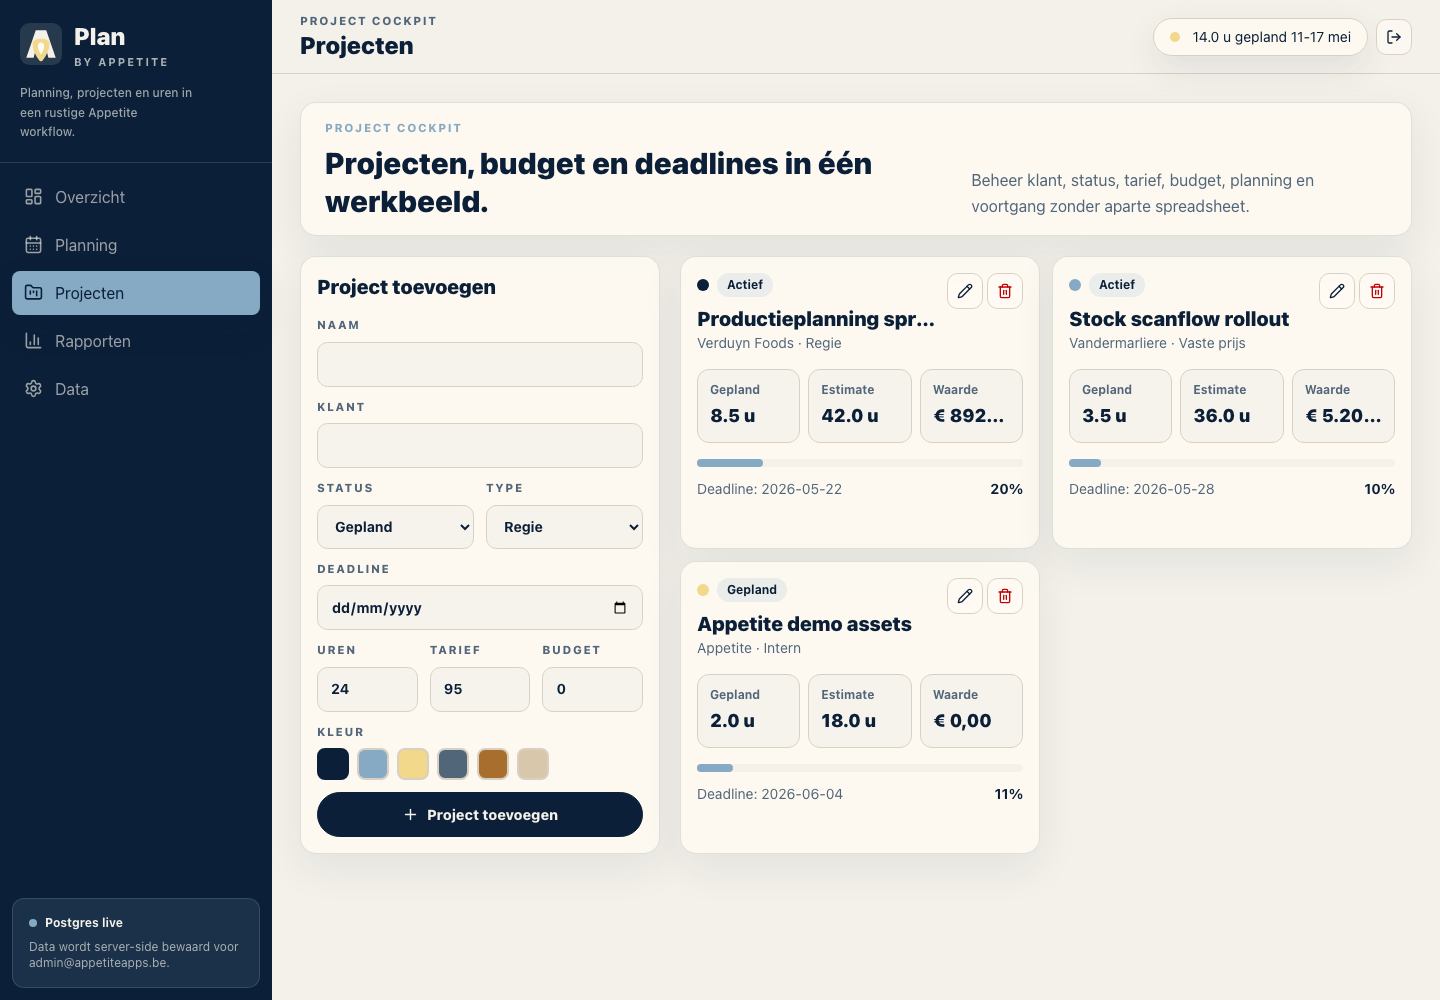
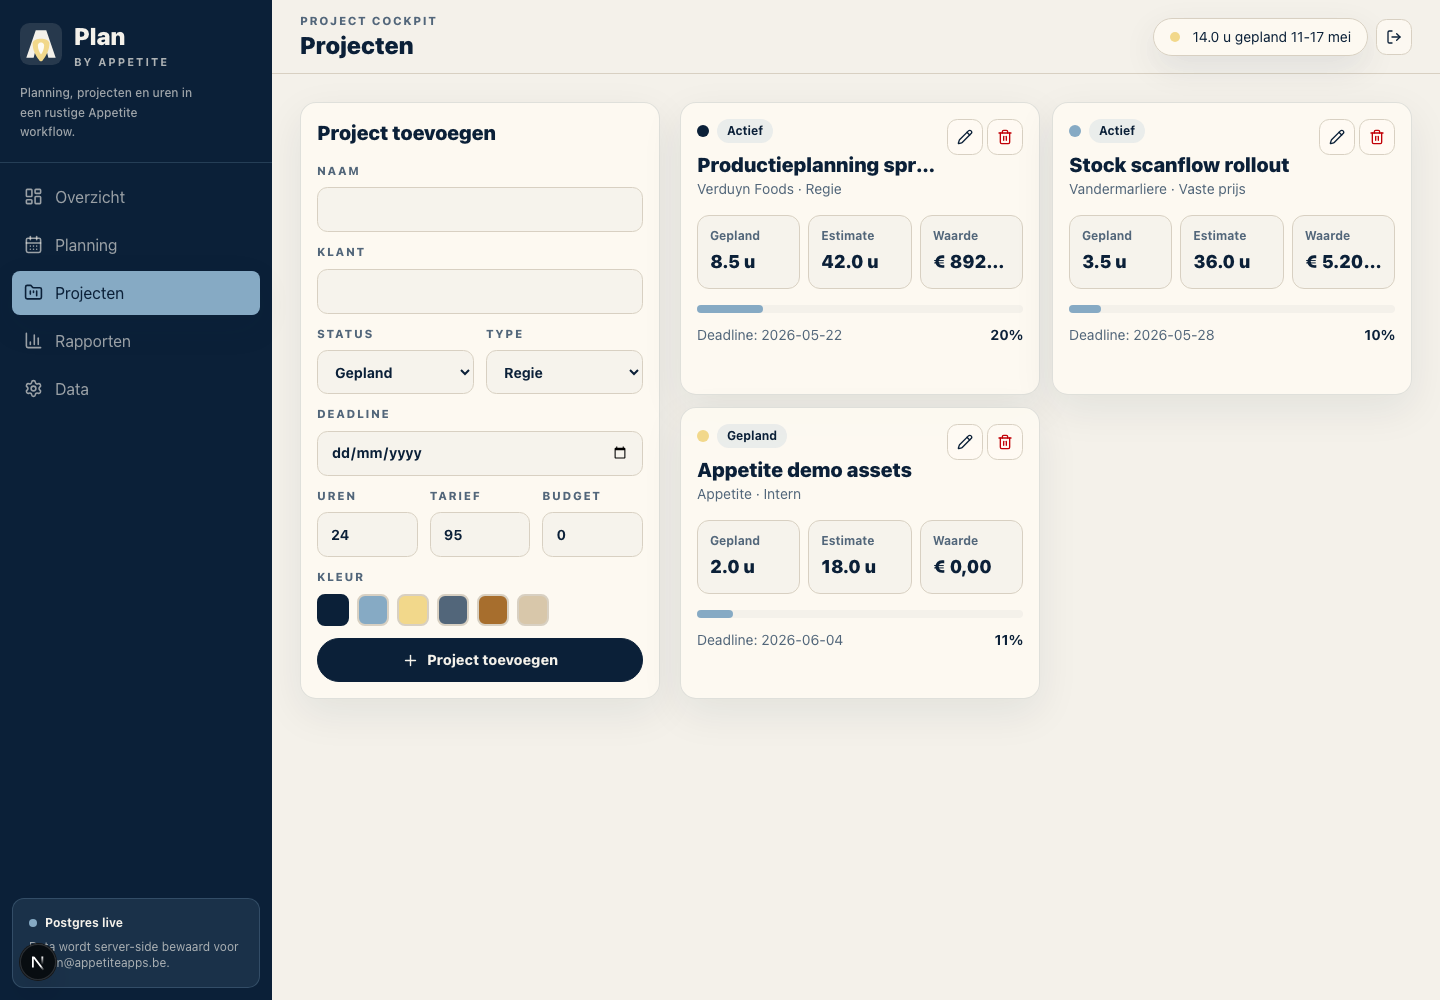
Remove app screen hero intros

diff --git a/src/components/PlanApp.tsx b/src/components/PlanApp.tsx
@@ -56,32 +56,12 @@ const navItems: { id: Screen; label: string; icon: typeof LayoutDashboard }[] = 
   { id: 'settings', label: 'Data', icon: Settings },
 ]
 
-const screenMeta: Record<Screen, { eyebrow: string; title: string; text: string }> = {
-  dashboard: {
-    eyebrow: 'Planning cockpit',
-    title: 'Eén ritme voor projecten, uren en capaciteit.',
-    text: 'Een compact overzicht van planning, deadlines en projectwaarde voor dagelijkse opvolging.',
-  },
-  planning: {
-    eyebrow: 'Week en maand',
-    title: 'Weekplanning',
-    text: 'Plan en wijzig tijdblokken vanuit één compact werkbeeld.',
-  },
-  projects: {
-    eyebrow: 'Project cockpit',
-    title: 'Projecten, budget en deadlines in één werkbeeld.',
-    text: 'Beheer klant, status, tarief, budget, planning en voortgang zonder aparte spreadsheet.',
-  },
-  reports: {
-    eyebrow: 'Rapportage',
-    title: 'Zie waar tijd en waarde naartoe gaan.',
-    text: 'Bundel factureerbare uren, projectstatus en omzetindicatie tot een bruikbaar rapport.',
-  },
-  settings: {
-    eyebrow: 'Beheer',
-    title: 'Data, demo en sessie onder controle.',
-    text: 'Exporteer, importeer of herstel data zonder database-instellingen in de browser te tonen.',
-  },
+const screenEyebrows: Record<Screen, string> = {
+  dashboard: 'Planning cockpit',
+  planning: 'Week en maand',
+  projects: 'Project cockpit',
+  reports: 'Rapportage',
+  settings: 'Beheer',
 }
 
 const defaultEntry = (projectId = '', date = todayKey()): Omit<TimeEntry, 'id'> => ({
@@ -187,7 +167,7 @@ function App({ initialState, userEmail }: { initialState: PlanState; userEmail: 
         <main className="min-w-0 pb-24 md:pb-0">
           <header className="hidden h-[74px] items-center justify-between border-b border-app-border bg-app-paper/78 px-7 backdrop-blur md:flex">
             <div>
-              <p className="app-caption text-app-muted">{screenMeta[screen].eyebrow}</p>
+              <p className="app-caption text-app-muted">{screenEyebrows[screen]}</p>
               <h1 className="font-display text-2xl font-black tracking-normal">{navItems.find((item) => item.id === screen)?.label}</h1>
             </div>
             <div className="flex items-center gap-2">
@@ -445,10 +425,10 @@ function Planning({
         </div>
 
       <section className="order-1 min-w-0 space-y-4 min-[1380px]:order-2">
-        <div className="app-panel flex min-w-0 flex-wrap items-center justify-between gap-3 rounded-2xl px-4 py-3">
+        <div className="flex min-w-0 flex-wrap items-center justify-between gap-3 border-b border-app-border pb-3">
           <div>
             <p className="app-caption text-app-blue">Week en maand</p>
-            <h2 className="font-display text-xl font-black tracking-normal md:text-2xl">{planningAnchor.toLocaleDateString('nl-BE', { month: 'long', year: 'numeric' })}</h2>
+            <h2 className="font-display text-lg font-black tracking-normal md:text-2xl">{planningAnchor.toLocaleDateString('nl-BE', { month: 'long', year: 'numeric' })}</h2>
             <p className="text-sm text-app-muted">Tijdblokken toevoegen, aanpassen en opvolgen.</p>
           </div>
           <div className="segmented">
@@ -526,7 +506,6 @@ function Projects({ state, onSave, onDelete }: { state: PlanState; onSave: (proj
 
   return (
     <div className="space-y-5">
-      <ScreenIntro screen="projects" />
       <div className="grid gap-5 xl:grid-cols-[360px_minmax(0,1fr)]">
         <div className="order-2 xl:order-1">
         <Panel title={draft.id ? 'Project bijwerken' : 'Project toevoegen'}>
@@ -631,7 +610,6 @@ function Reports({ state }: { state: PlanState }) {
 
   return (
     <div className="space-y-5">
-      <ScreenIntro screen="reports" />
       <section className="grid gap-3 sm:grid-cols-3">
         <MetricCard icon={Clock3} label="Alle uren" value={formatHours(rows.reduce((sum, row) => sum + row.hours, 0))} helper="planning totaal" />
         <MetricCard icon={CheckCircle2} label="Factureerbaar" value={formatHours(rows.reduce((sum, row) => sum + row.billable, 0))} helper="uren met facturatie" />
@@ -702,7 +680,6 @@ function DataSettings({
 
   return (
     <div className="space-y-5">
-      <ScreenIntro screen="settings" />
       <div className="grid gap-5 lg:grid-cols-3">
         <Panel title="Export en import">
           <div className="space-y-3 text-sm text-app-muted">
@@ -739,19 +716,6 @@ function DataSettings({
         </Panel>
       </div>
     </div>
-  )
-}
-
-function ScreenIntro({ screen }: { screen: Screen }) {
-  const meta = screenMeta[screen]
-  return (
-    <section className="app-panel rounded-2xl px-5 py-4 md:px-6">
-      <p className="app-caption text-app-blue">{meta.eyebrow}</p>
-      <div className="mt-2 grid gap-2 md:grid-cols-[minmax(0,.86fr)_minmax(280px,.56fr)] md:items-end">
-        <h2 className="font-display text-2xl font-black leading-tight tracking-normal md:text-3xl">{meta.title}</h2>
-        <p className="text-sm leading-relaxed text-app-muted md:text-base">{meta.text}</p>
-      </div>
-    </section>
   )
 }
 